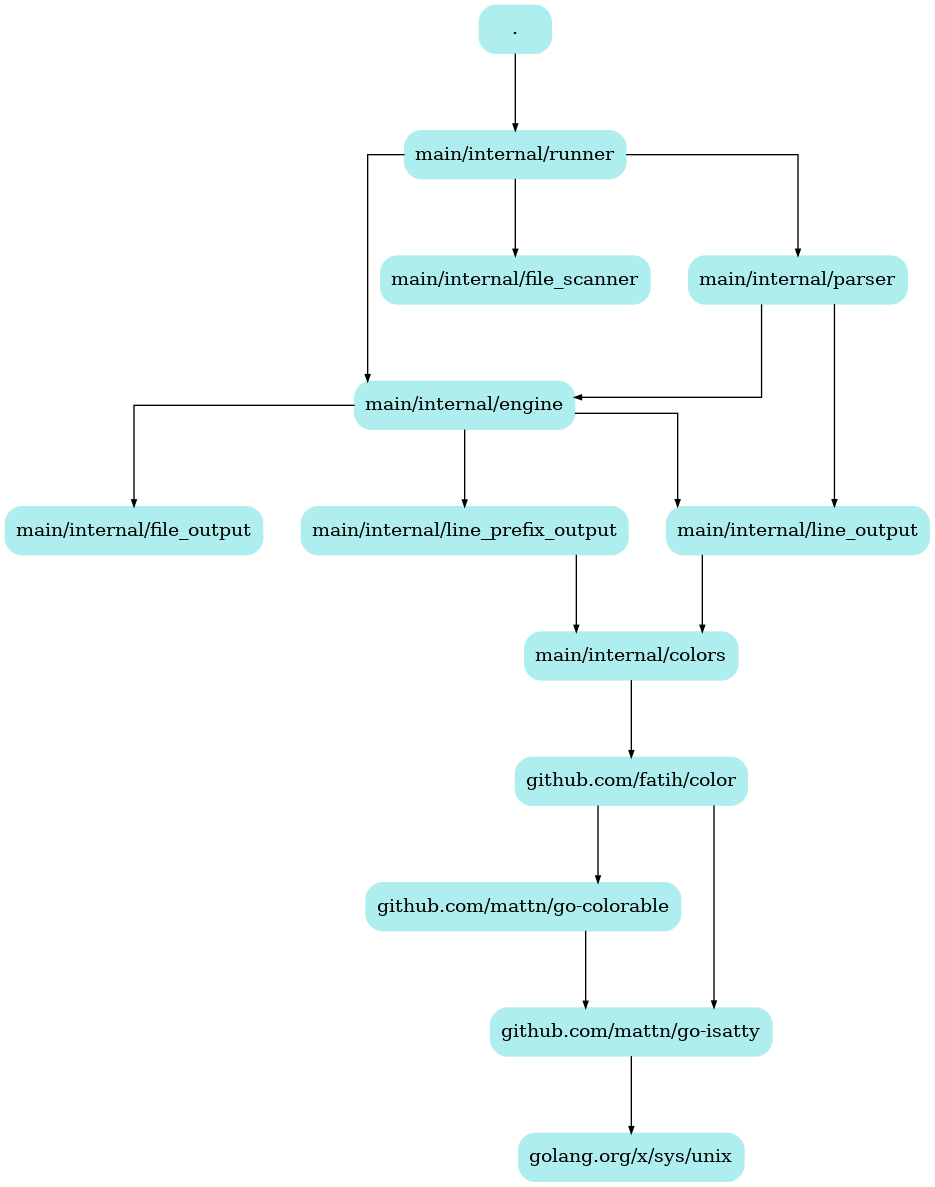
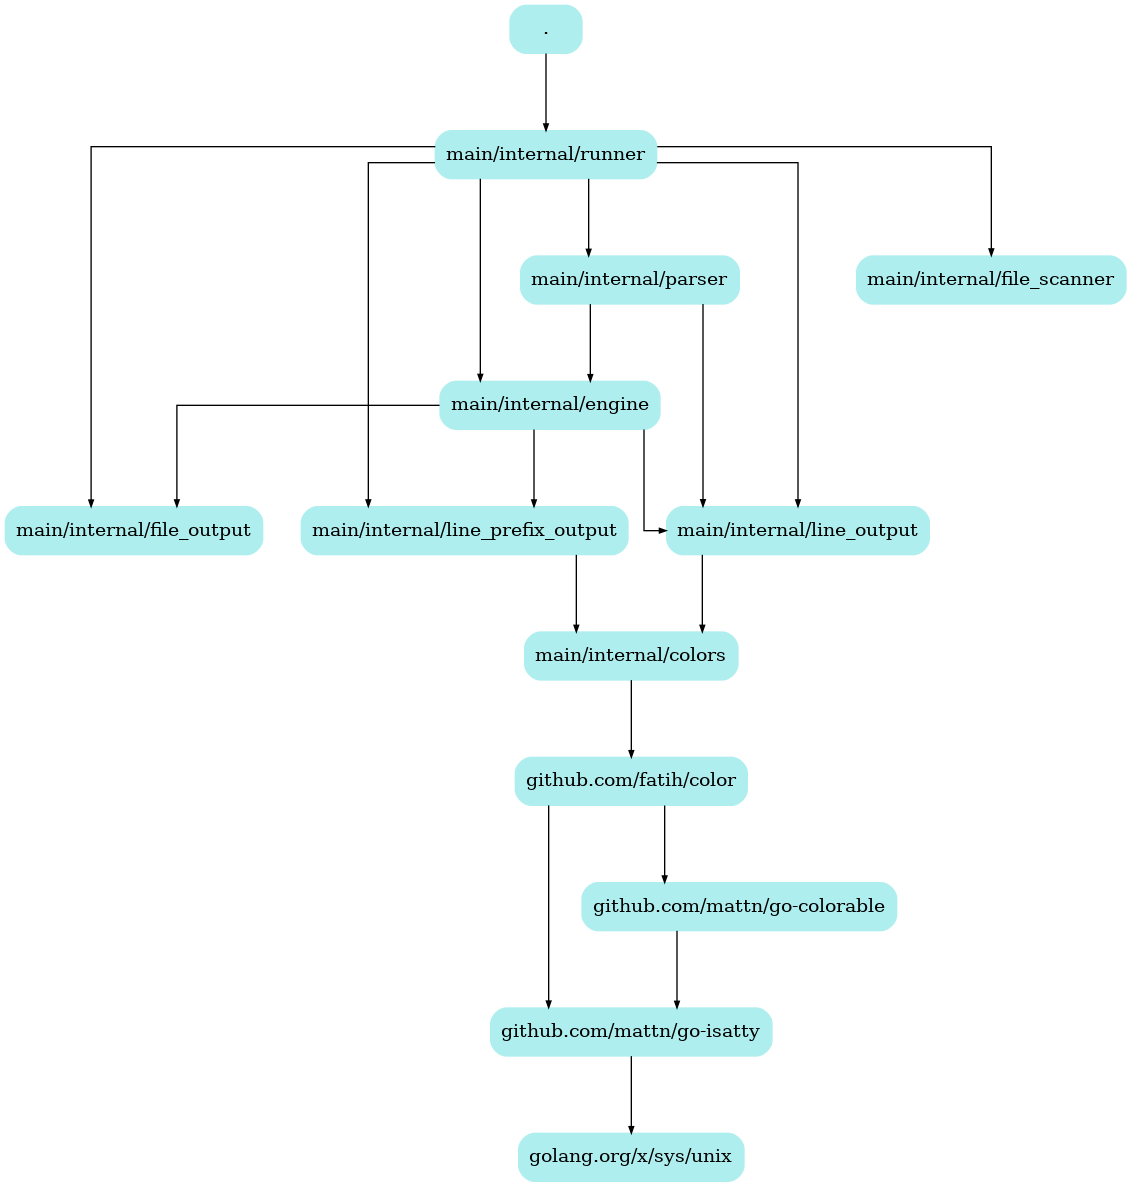
refactoring step 1 : adding interfaces to decouple engine and 3 components (line selector, file level motor, file prefix motor)

diff --git a/1_grep_like_tool/internal/file_output/file_output.go b/1_grep_like_tool/internal/file_output/file_output.go
@@ -11,52 +11,62 @@ type FileOutputRequest struct {
 	countMatchingLinesMap map[string]int
 }
 
-func (fos FileOutputRequest) SuppressNormalOutput() bool {
-	return fos.CountLines ||
-		fos.FilesWithoutMatch ||
-		fos.FilesWithMatch
+type FileOutputSelector struct {
+	Fo *FileOutputRequest
 }
 
-func (fos *FileOutputRequest) ProcessOutputLine(line string, filename string) {
+func (fos FileOutputSelector) suppressNormalOutput() bool {
+	return fos.Fo.CountLines ||
+		fos.Fo.FilesWithoutMatch ||
+		fos.Fo.FilesWithMatch
+}
+
+func (fos *FileOutputSelector) ProcessLine(line string, filename string) string {
 	// store count or what's required to be able to print final output by file
 
+	// when we don't process the results at the file level
+	if !fos.suppressNormalOutput() {
+		return line
+	}
+
 	switch {
-	case fos.FilesWithoutMatch:
-		if fos.filesWithoutMatchMap == nil {
-			fos.filesWithoutMatchMap = make(map[string]bool)
+	case fos.Fo.FilesWithoutMatch:
+		if fos.Fo.filesWithoutMatchMap == nil {
+			fos.Fo.filesWithoutMatchMap = make(map[string]bool)
 		}
 		if line == "" {
-			fos.filesWithoutMatchMap[filename] = true
+			fos.Fo.filesWithoutMatchMap[filename] = true
 		}
-	case fos.FilesWithMatch:
-		if fos.filesWithMatchMap == nil {
-			fos.filesWithMatchMap = make(map[string]bool)
-		}
-		if line != "" {
-			fos.filesWithMatchMap[filename] = true
-		}
-	case fos.CountLines:
-		if fos.countMatchingLinesMap == nil {
-			fos.countMatchingLinesMap = make(map[string]int)
+	case fos.Fo.FilesWithMatch:
+		if fos.Fo.filesWithMatchMap == nil {
+			fos.Fo.filesWithMatchMap = make(map[string]bool)
 		}
 		if line != "" {
-			fos.countMatchingLinesMap[filename] += 1
+			fos.Fo.filesWithMatchMap[filename] = true
+		}
+	case fos.Fo.CountLines:
+		if fos.Fo.countMatchingLinesMap == nil {
+			fos.Fo.countMatchingLinesMap = make(map[string]int)
+		}
+		if line != "" {
+			fos.Fo.countMatchingLinesMap[filename] += 1
 		}
 	}
+	return ""
 }
 
-func (fos *FileOutputRequest) GetFinalOutputControl(filename string) string {
+func (fos *FileOutputSelector) GetFileLevelResult(filename string) string {
 	switch {
-	case fos.FilesWithoutMatch:
-		if fos.filesWithoutMatchMap[filename] {
+	case fos.Fo.FilesWithoutMatch:
+		if fos.Fo.filesWithoutMatchMap[filename] {
 			return filename
 		}
-	case fos.FilesWithMatch:
-		if fos.filesWithMatchMap[filename] {
+	case fos.Fo.FilesWithMatch:
+		if fos.Fo.filesWithMatchMap[filename] {
 			return filename
 		}
-	case fos.CountLines:
-		line_count := fos.countMatchingLinesMap[filename]
+	case fos.Fo.CountLines:
+		line_count := fos.Fo.countMatchingLinesMap[filename]
 		return fmt.Sprintf("%d", line_count)
 	}
 	return ""

diff --git a/1_grep_like_tool/internal/engine/engine.go b/1_grep_like_tool/internal/engine/engine.go
@@ -1,57 +1,42 @@
 package engine
 
-import (
-	"fmt"
-	"main/internal/file_output"
-	"main/internal/line_output"
-	"main/internal/line_prefix_output"
-)
-
-type Request struct {
-	Paths      []string
-	Recursive  bool
-	Search     line_output.SearchInfo
-	FileOutput file_output.FileOutputRequest
-	LinePrefix line_prefix_output.LinePrefixRequest
+type LineSelector interface {
+	GetResult(line string) string
 }
 
-func (r Request) IsRecursive() bool {
-	return r.Recursive
+type FileLevelMotor interface {
+	ProcessLine(selected_line string, filename string) string
+	GetFileLevelResult(filename string) string
 }
 
-func (r Request) GetPaths() []string {
-	return r.Paths
+type FilePrefixMotor interface {
+	GetPrefix(filename string) string
 }
 
 type Engine struct {
-	Request      *Request
-	LineSelector line_output.LineSelector
+	request *Request
+	ls      LineSelector
+	flm     FileLevelMotor
+	fpm     FilePrefixMotor
 }
 
-func NewEngine(req *Request) (Engine, error) {
+func NewEngine(req *Request, ls LineSelector, flm FileLevelMotor, fpm FilePrefixMotor) (Engine, error) {
 	var e Engine
-	e.Request = req
-	ls, err := line_output.NewLineSelector(req.Search)
-
-	if err != nil {
-		return Engine{}, fmt.Errorf("create engine : %w", err)
-	}
-
-	e.LineSelector = ls
+	e.request = req
+	e.ls = ls
+	e.flm = flm
+	e.fpm = fpm
 	return e, nil
 }
 
 func (e Engine) OutputOnLine(line string, filename string) string {
 
-	line_output := e.LineSelector.GetOutputLine(line)
+	line_output := e.ls.GetResult(line)
 
-	if e.Request.FileOutput.SuppressNormalOutput() {
-		e.Request.FileOutput.ProcessOutputLine(line_output, filename)
-		line_output = ""
-	}
+	line_output = e.flm.ProcessLine(line_output, filename)
 
 	if len(line_output) != 0 {
-		prefix := e.Request.LinePrefix.GetPrefix(filename)
+		prefix := e.fpm.GetPrefix(filename)
 
 		line_output = prefix + line_output + "\n"
 	}
@@ -60,10 +45,10 @@ func (e Engine) OutputOnLine(line string, filename string) string {
 
 func (e Engine) OutputOnWholeFile(filename string) string {
 
-	line_output := e.Request.FileOutput.GetFinalOutputControl(filename)
+	line_output := e.flm.GetFileLevelResult(filename)
 
 	if len(line_output) > 0 {
-		prefix := e.Request.LinePrefix.GetPrefix(filename)
+		prefix := e.fpm.GetPrefix(filename)
 
 		line_output = prefix + line_output + "\n"
 	}

diff --git a/1_grep_like_tool/internal/file_scanner/file_scanner.go b/1_grep_like_tool/internal/file_scanner/file_scanner.go
@@ -21,24 +21,24 @@ type Finder interface {
 	OutputOnWholeFile(filename string) string
 }
 
-type FileSelectionContainer interface {
+type ScannableContent interface {
 	IsRecursive() bool
 	GetPaths() []string // can be both file paths or dir paths
 }
 
 type FileScanner struct {
-	Finder                 Finder
-	FileSelectionContainer FileSelectionContainer
-	printOut               *io.Writer
-	printErr               *io.Writer
+	Finder   Finder
+	Content  ScannableContent
+	printOut *io.Writer
+	printErr *io.Writer
 }
 
-func NewFileScanner(finder Finder, fsc FileSelectionContainer,
+func NewFileScanner(finder Finder, sc ScannableContent,
 	print_out io.Writer, print_err io.Writer) FileScanner {
 
 	var fs FileScanner
 	fs.Finder = finder
-	fs.FileSelectionContainer = fsc
+	fs.Content = sc
 	fs.printOut = &print_out
 	fs.printErr = &print_err
 	return fs
@@ -62,14 +62,14 @@ func (fileScanner FileScanner) GoThroughFiles() {
 	// order of the results is important : for each file AND for each line
 	workersWg.Add(1)
 
-	if !fileScanner.FileSelectionContainer.IsRecursive() {
-		for _, filename := range fileScanner.FileSelectionContainer.GetPaths() {
+	if !fileScanner.Content.IsRecursive() {
+		for _, filename := range fileScanner.Content.GetPaths() {
 
 			fileScanner.processFile(filename, workersCh, filesOut, &workersWg)
 		}
 
 	} else {
-		for _, filename := range fileScanner.FileSelectionContainer.GetPaths() {
+		for _, filename := range fileScanner.Content.GetPaths() {
 
 			visitor := func(path string, d fs.DirEntry, err error) error {
 

diff --git a/1_grep_like_tool/internal/engine/engine_test.go b/1_grep_like_tool/internal/engine/engine_test.go
@@ -177,7 +177,18 @@ func TestEngineLine(test *testing.T) {
 	}
 
 	for _, subtest := range subtests {
-		engine, err := NewEngine(&subtest.request)
+
+		lineSelector, err := line_output.NewLineSelector(subtest.request.Search)
+
+		if err != nil {
+			test.Fatal(err.Error())
+		}
+
+		linePrefix := line_prefix_output.LinePrefixSelector{Lpr: &subtest.request.LinePrefix}
+		fileSelector := file_output.FileOutputSelector{Fo: &subtest.request.FileOutput}
+
+		// TODO : use mock of lineSelector, fileSelector, linePrefix
+		engine, err := NewEngine(&subtest.request, lineSelector, &fileSelector, linePrefix)
 
 		var out = engine.OutputOnLine(subtest.line, subtest.filename)
 
@@ -359,7 +370,19 @@ func TestEngineWholeFile(test *testing.T) {
 	}
 
 	for _, subtest := range subtests {
-		engine, err := NewEngine(&subtest.request)
+
+		lineSelector, err := line_output.NewLineSelector(subtest.request.Search)
+
+		if err != nil {
+			test.Fatal(err.Error())
+		}
+
+		linePrefix := line_prefix_output.LinePrefixSelector{Lpr: &subtest.request.LinePrefix}
+
+		fileSelector := file_output.FileOutputSelector{Fo: &subtest.request.FileOutput}
+
+		// TODO : use mock of lineSelector, fileSelector, linePrefix
+		engine, err := NewEngine(&subtest.request, lineSelector, &fileSelector, linePrefix)
 
 		for _, content := range subtest.content {
 			engine.OutputOnLine(content.line, content.filename)

diff --git a/1_grep_like_tool/internal/file_output/file_output_test.go b/1_grep_like_tool/internal/file_output/file_output_test.go
@@ -32,7 +32,7 @@ func TestSuppressNormalOutput(test *testing.T) {
 	}
 
 	for _, subtest := range subtests {
-		var out = subtest.ocr.SuppressNormalOutput()
+		var out = FileOutputSelector{Fo: &subtest.ocr}.suppressNormalOutput()
 
 		if out != subtest.exp_out {
 			test.Errorf("wanted %#v (%#v), got %#v",
@@ -188,11 +188,13 @@ func TestGetOutputLine(test *testing.T) {
 	}
 
 	for _, subtest := range subtests {
+		var fos = FileOutputSelector{Fo: &subtest.ocr}
+
 		for _, content := range subtest.content {
-			subtest.ocr.ProcessOutputLine(content.line, content.filename)
+			fos.ProcessLine(content.line, content.filename)
 		}
 
-		out := subtest.ocr.GetFinalOutputControl(subtest.filename)
+		out := fos.GetFileLevelResult(subtest.filename)
 
 		if out != subtest.exp_out {
 			test.Errorf("wanted %#v (content %+v, for file %s, req %+v), got %#v",

diff --git a/1_grep_like_tool/internal/runner/runner.go b/1_grep_like_tool/internal/runner/runner.go
@@ -3,7 +3,10 @@ package runner
 import (
 	"fmt"
 	"main/internal/engine"
+	"main/internal/file_output"
 	"main/internal/file_scanner"
+	"main/internal/line_output"
+	"main/internal/line_prefix_output"
 	"main/internal/parser"
 	"os"
 )
@@ -16,7 +19,17 @@ func Run(args []string) {
 		os.Exit(2)
 	}
 
-	eng, err := engine.NewEngine(&req)
+	lineSelector, err := line_output.NewLineSelector(req.Search)
+
+	if err != nil {
+		fmt.Fprintln(os.Stderr, err.Error())
+		os.Exit(2)
+	}
+
+	linePrefixSelector := line_prefix_output.LinePrefixSelector{Lpr: &req.LinePrefix}
+	fileSelector := file_output.FileOutputSelector{Fo: &req.FileOutput}
+
+	eng, err := engine.NewEngine(&req, lineSelector, &fileSelector, linePrefixSelector)
 
 	if err != nil {
 		fmt.Fprintln(os.Stderr, err.Error())

diff --git a/1_grep_like_tool/internal/engine/request.go b/1_grep_like_tool/internal/engine/request.go
@@ -1,0 +1,23 @@
+package engine
+
+import (
+	"main/internal/file_output"
+	"main/internal/line_output"
+	"main/internal/line_prefix_output"
+)
+
+type Request struct {
+	Paths      []string
+	Recursive  bool
+	Search     line_output.SearchInfo
+	FileOutput file_output.FileOutputRequest
+	LinePrefix line_prefix_output.LinePrefixRequest
+}
+
+func (r Request) IsRecursive() bool {
+	return r.Recursive
+}
+
+func (r Request) GetPaths() []string {
+	return r.Paths
+}

diff --git a/1_grep_like_tool/internal/line_prefix_output/line_prefix_output.go b/1_grep_like_tool/internal/line_prefix_output/line_prefix_output.go
@@ -6,8 +6,12 @@ type LinePrefixRequest struct {
 	WithFilename bool
 }
 
-func (lpr LinePrefixRequest) GetPrefix(filename string) (ret string) {
-	if lpr.WithFilename {
+type LinePrefixSelector struct {
+	Lpr *LinePrefixRequest
+}
+
+func (lps LinePrefixSelector) GetPrefix(filename string) (ret string) {
+	if lps.Lpr.WithFilename {
 		ret = colors.Color_magenta(filename) + colors.Color_cyan(":")
 	}
 	return

diff --git a/1_grep_like_tool/internal/line_prefix_output/line_prefix_output_test.go b/1_grep_like_tool/internal/line_prefix_output/line_prefix_output_test.go
@@ -26,7 +26,7 @@ func TestGetPrefix(test *testing.T) {
 	}
 
 	for _, subtest := range subtests {
-		var out = subtest.lpr.GetPrefix(subtest.filename)
+		var out = LinePrefixSelector{Lpr: &subtest.lpr}.GetPrefix(subtest.filename)
 
 		if out != subtest.exp_out {
 			test.Errorf("wanted %s (filename=%s with request=%+v), got %s",

diff --git a/1_grep_like_tool/internal/line_output/line_output.go b/1_grep_like_tool/internal/line_output/line_output.go
@@ -63,7 +63,7 @@ func NewLineSelector(search SearchInfo) (LineSelector, error) {
 	return ls, nil
 }
 
-func (ls LineSelector) GetOutputLine(line string) string {
+func (ls LineSelector) GetResult(line string) string {
 	out_line := ls.lineSelectorPipeline(line)
 	return colorResults(out_line)
 }

diff --git a/1_grep_like_tool/README.md b/1_grep_like_tool/README.md
@@ -63,3 +63,12 @@ go tool pprof -png -output=profiling/out/profiling1.png main profiling/out/profi
 
 Example of graph :
 ![](./profiling/out/profiling_graph_20240430.png)
+
+Generate architecture UML diagrams : 
+```
+goplantuml -recursive -show-aggregations /home/menseau/Documents/Go/learning_go/1_grep_like_tool > classdiagram.puml
+```
+
+```
+godepgraph -s . | dot -Tpng -o depdiagram.png
+```
